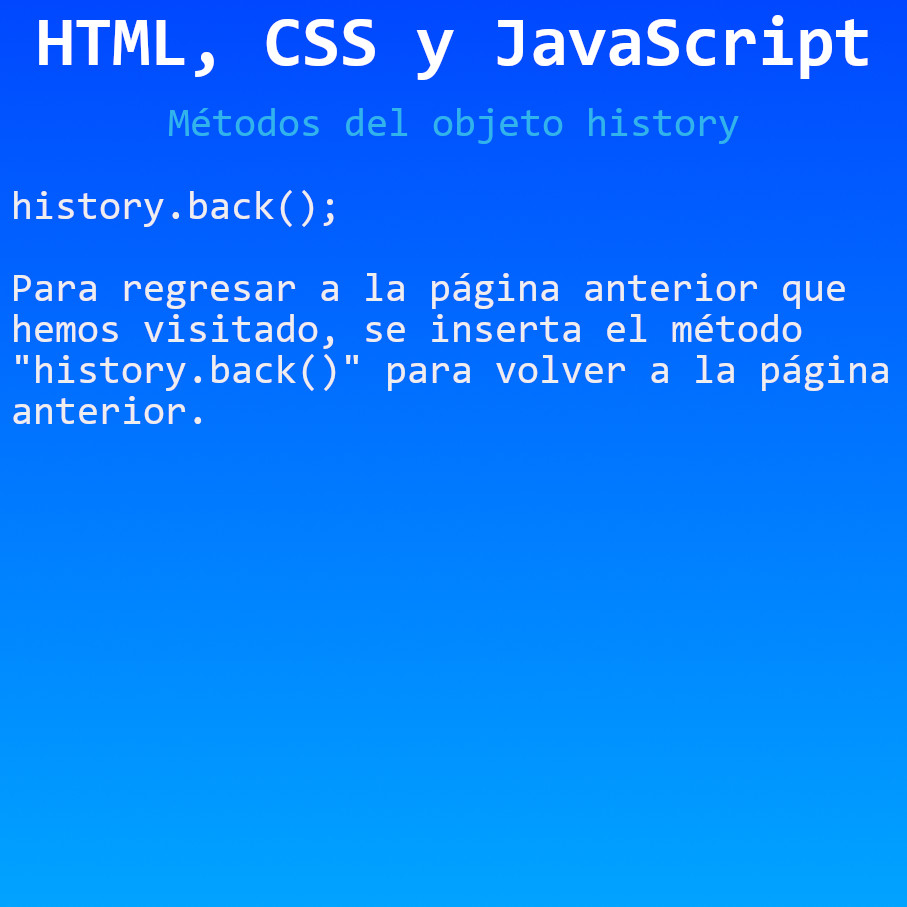
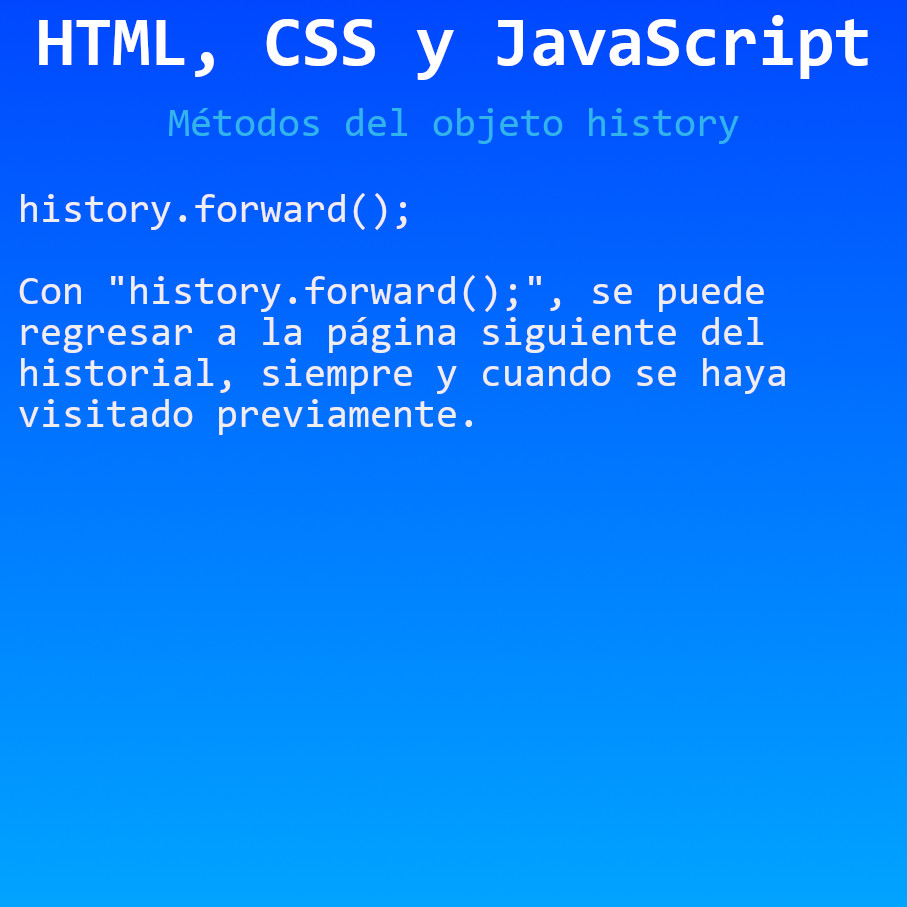
Métodos del objeto history
Métodos del objeto history en JavaScript

Changed region(s): [[0.0, 0.3087, 0.9879, 0.4939], [0.0, 0.2161, 0.4631, 0.247]]

diff --git a/HTML, CSS y JavaScript/Métodos del objeto history/js/funciones.js b/HTML, CSS y JavaScript/Métodos del objeto history/js/funciones.js
@@ -1,2 +1,4 @@
 // RETROCEDER A LA PÁGINA ANTERIOR
-history.back();
+//history.back();
+// IR A LA PÁGINA SIGUIENTE
+history.forward();
